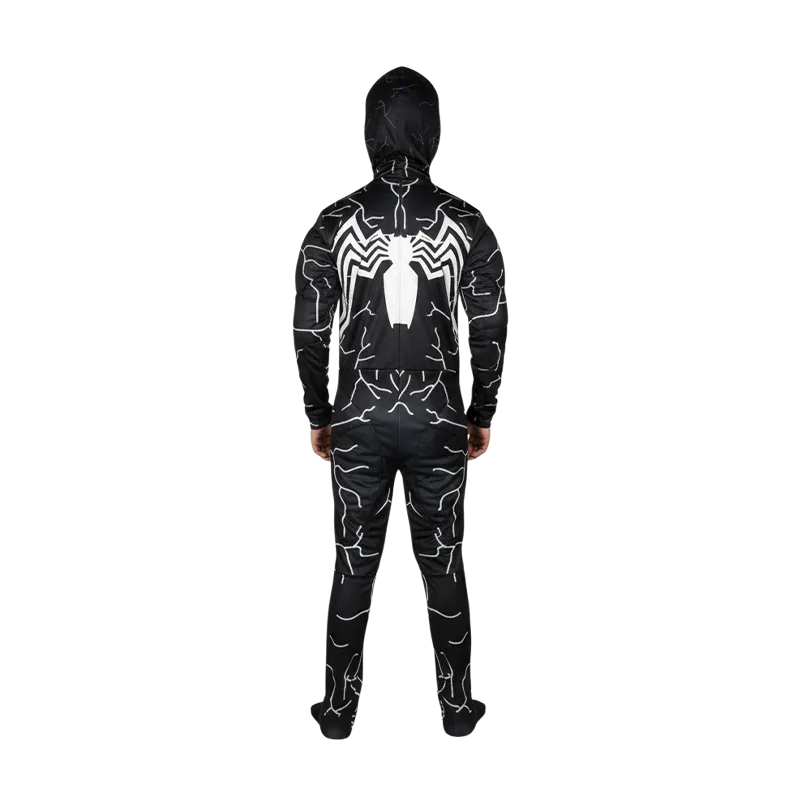
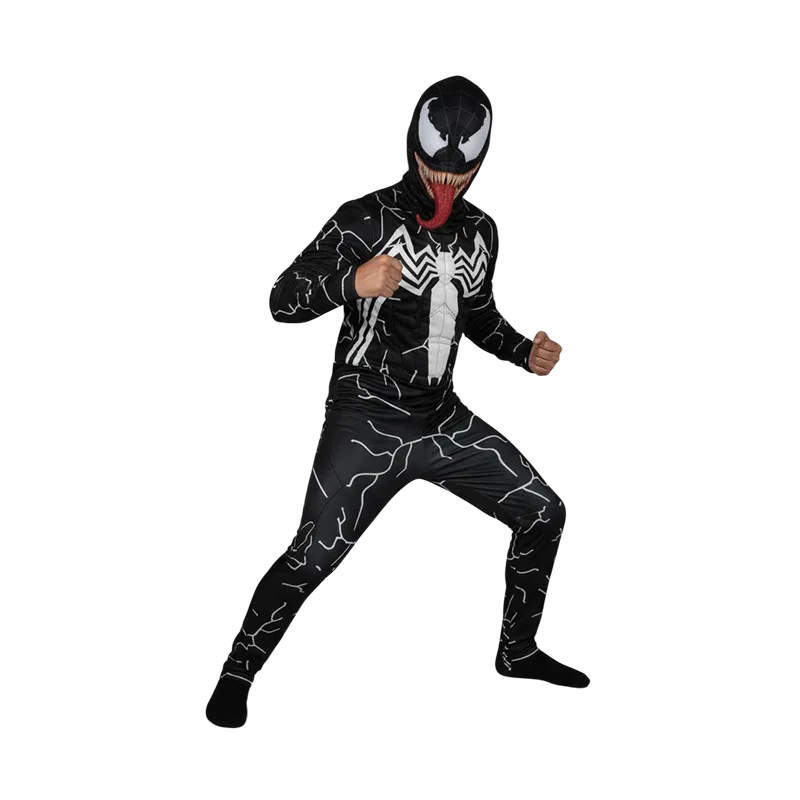
Fix: filtro de tallas, categorias vacias en home y foto duplicada de Venom
- Filtro de tallas/temporada no funcionaba: toggle() esperaba un Ref pero
  el template auto-desenvuelve el ref y le pasaba el array; arr.value era
  undefined y el clic lanzaba error. Ahora opera sobre el array reactivo.
- Home "Explora por categoria": solo se muestran categorias con productos
  visibles. Caballeros (vacio, sin fotos) queda fuera; se reactiva solo
  cuando tenga catalogo. La grid ajusta columnas via --cols.
- Venom negro (ninos): la 2a foto era identica a la frontal; se reemplaza
  por superacolchado-venom-pose-1 (convertida a webp).

Changed region(s): [[0.25, 0.0625, 0.75, 0.9375]]

diff --git a/app/pages/index.vue b/app/pages/index.vue
@@ -1,6 +1,11 @@
 <script setup lang="ts">
-const { categories } = useProducts()
+const { categories, byPublico } = useProducts()
 const { reveal } = useSiteMotion()
+
+// Solo categorías con productos visibles: las vacías ("muy pronto", p. ej.
+// Caballeros hoy) no se muestran en el home hasta tener catálogo/fotos.
+// Se reactivan solas cuando byPublico deja de estar vacío.
+const shownCategories = computed(() => categories.filter(c => byPublico(c.slug).length > 0))
 
 useHead({
   title: 'Kustom Disfraces — Disfraces para cada historia en Bogotá',
@@ -33,9 +38,9 @@ useHead({
     <div v-motion v-bind="reveal()" class="section__head">
       <h2 class="section__title">Explora por categoría</h2>
     </div>
-    <div class="cat-grid">
+    <div class="cat-grid" :style="{ '--cols': shownCategories.length }">
       <CategoryCard
-        v-for="(c, i) in categories"
+        v-for="(c, i) in shownCategories"
         :key="c.slug"
         v-motion
         v-bind="reveal(i * 60)"
@@ -89,8 +94,9 @@ useHead({
 
 .cat-grid {
   display: grid;
-  /* 5 públicos en una fila (desktop) */
-  grid-template-columns: repeat(5, 1fr);
+  /* una columna por categoría mostrada (desktop); --cols lo fija el template.
+     Los breakpoints de abajo lo sobreescriben en mobile. */
+  grid-template-columns: repeat(var(--cols, 5), 1fr);
   gap: var(--space-5);
 }
 

diff --git a/app/pages/categoria/[slug].vue b/app/pages/categoria/[slug].vue
@@ -81,10 +81,12 @@ const fRange = ref<number | null>(null) // índice de priceRanges
 const sort = ref<'rel' | 'price-asc' | 'price-desc'>('rel')
 const showFilters = ref(false) // toggle mobile
 
-function toggle<T>(arr: Ref<T[]>, val: T) {
-  const i = arr.value.indexOf(val)
-  if (i === -1) arr.value.push(val)
-  else arr.value.splice(i, 1)
+// OJO: en el template los refs se auto-desenvuelven, así que aquí llega el
+// array reactivo (no el Ref). Mutarlo (push/splice) dispara la reactividad.
+function toggle<T>(arr: T[], val: T) {
+  const i = arr.indexOf(val)
+  if (i === -1) arr.push(val)
+  else arr.splice(i, 1)
 }
 function clearFilters() {
   fSizes.value = []
